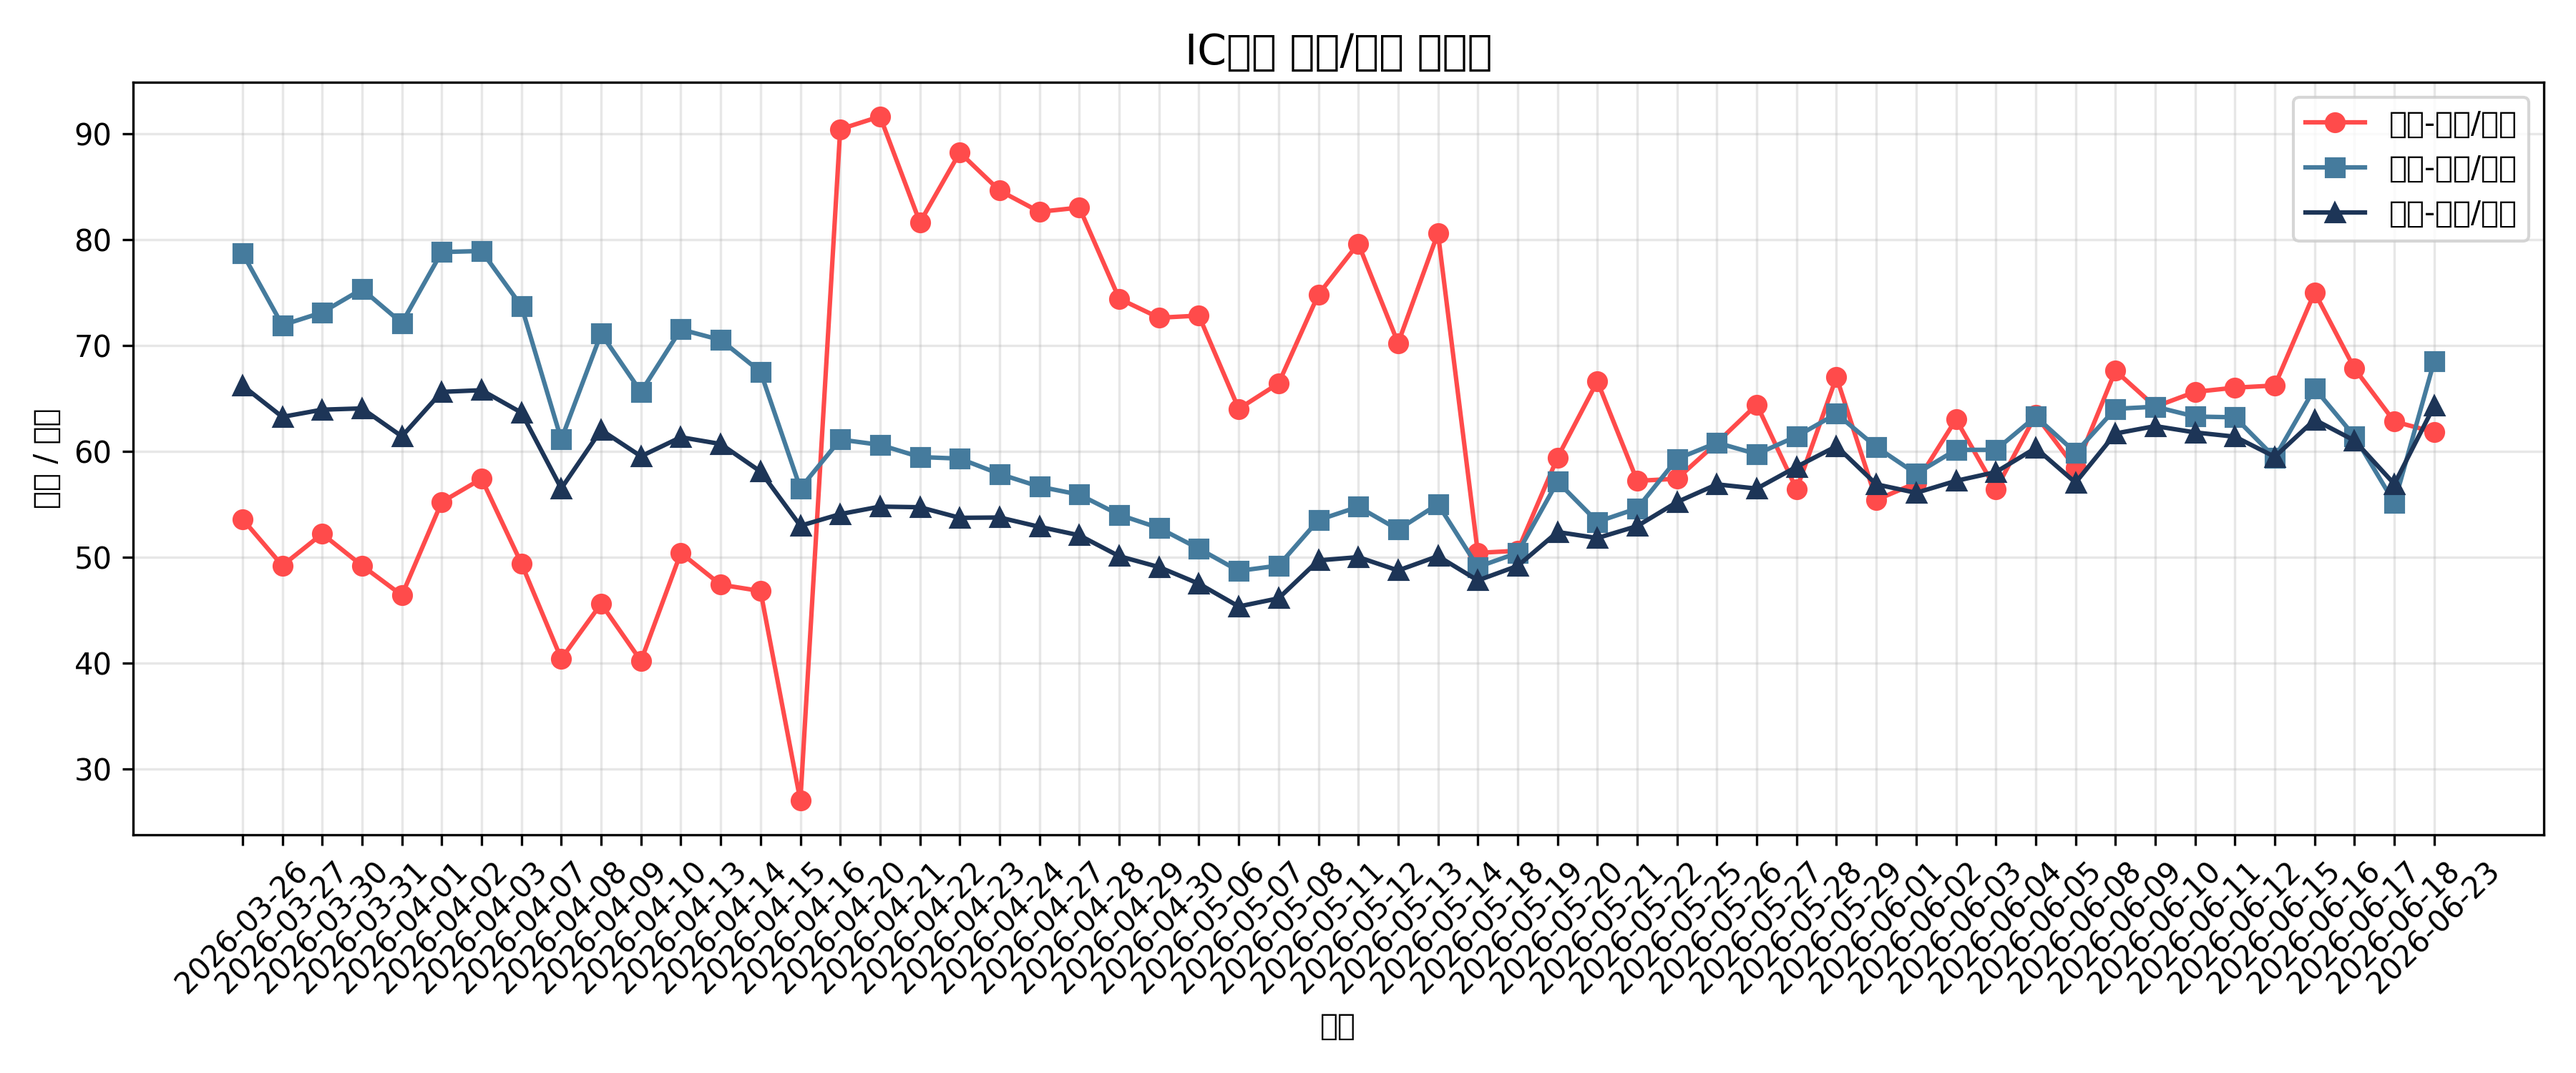
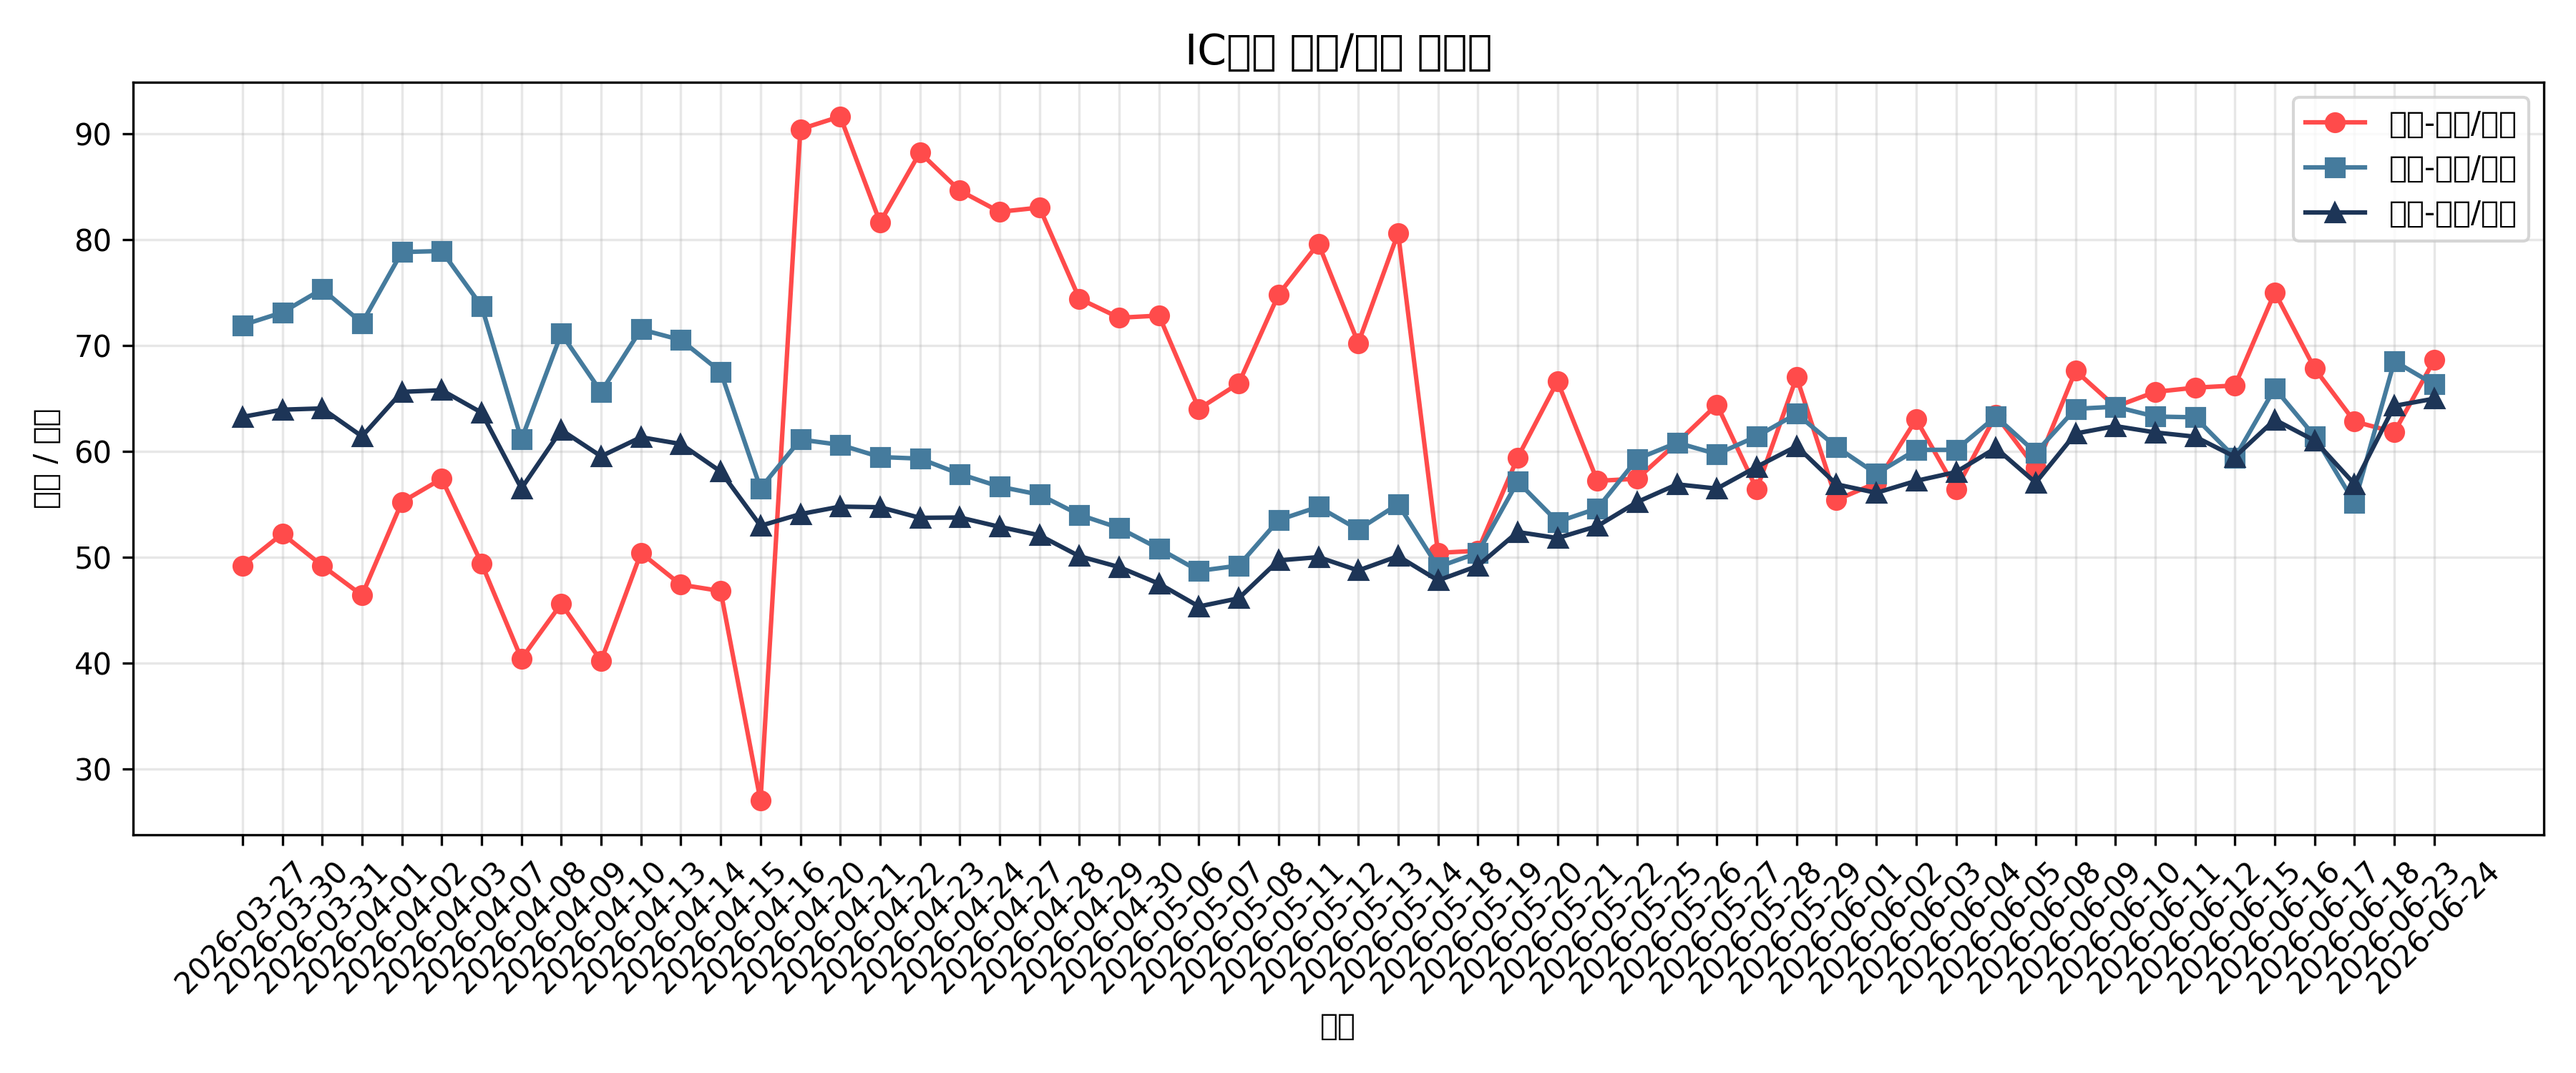
deploy: 4d1bb30b7b0bf8623cc214497fc979b4192c654b

diff --git a/index.html b/index.html
@@ -84,19 +84,19 @@
 <body>
     <div class="container">
         <h1>IC期货基差监控</h1>
-        <div class="last-updated">最后更新：2026-06-23 19:45:53</div>
+        <div class="last-updated">最后更新：2026-06-24 19:30:58</div>
         
         <div class="stats">
             <div class="stat-card">
-                <div class="stat-value">61.8</div>
+                <div class="stat-value">68.6</div>
                 <div class="stat-label">当月-下月/月差</div>
             </div>
             <div class="stat-card">
-                <div class="stat-value">68.5</div>
+                <div class="stat-value">66.3</div>
                 <div class="stat-label">当月-当季/月差</div>
             </div>
             <div class="stat-card">
-                <div class="stat-value">64.28</div>
+                <div class="stat-value">64.96</div>
                 <div class="stat-label">当月-下季/月差</div>
             </div>
         </div>
@@ -114,14 +114,6 @@
                 <th>当月-下月/月差</th>
                 <th>当月-当季/月差</th>
                 <th>当月-下季/月差</th>
-            </tr>
-
-            <tr>
-                <td>2026-06-11</td>
-                <td>IC2606</td>
-                <td>65.6</td>
-                <td>63.27</td>
-                <td>61.77</td>
             </tr>
 
             <tr>
@@ -170,6 +162,14 @@
                 <td>61.8</td>
                 <td>68.5</td>
                 <td>64.28</td>
+            </tr>
+
+            <tr>
+                <td>2026-06-24</td>
+                <td>IC2607</td>
+                <td>68.6</td>
+                <td>66.3</td>
+                <td>64.96</td>
             </tr>
 
         </table>
